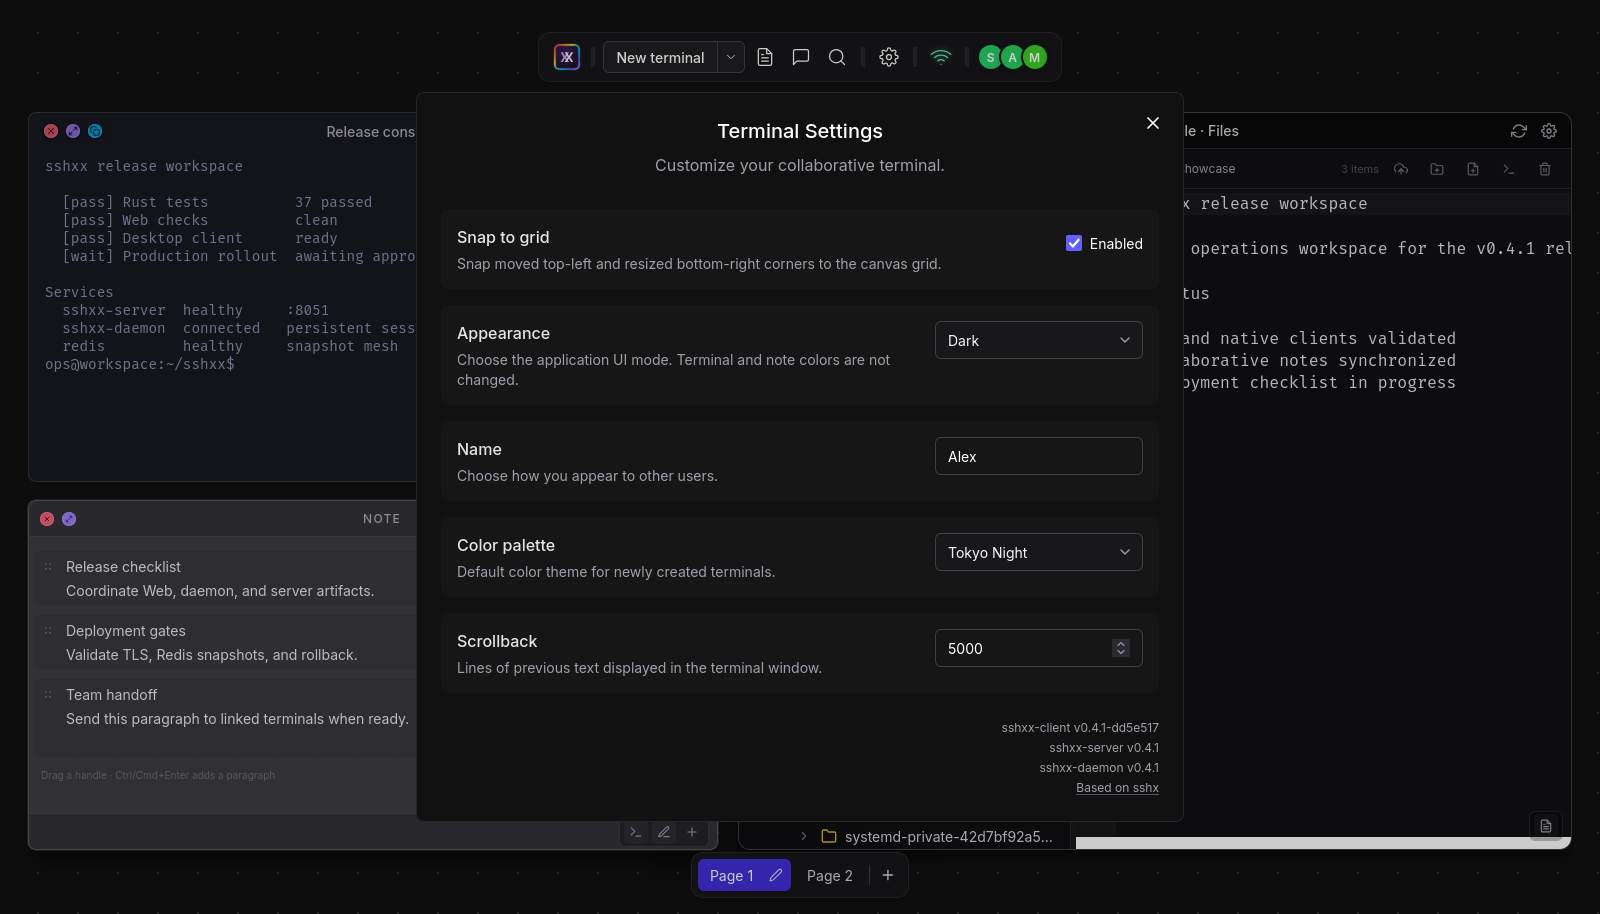
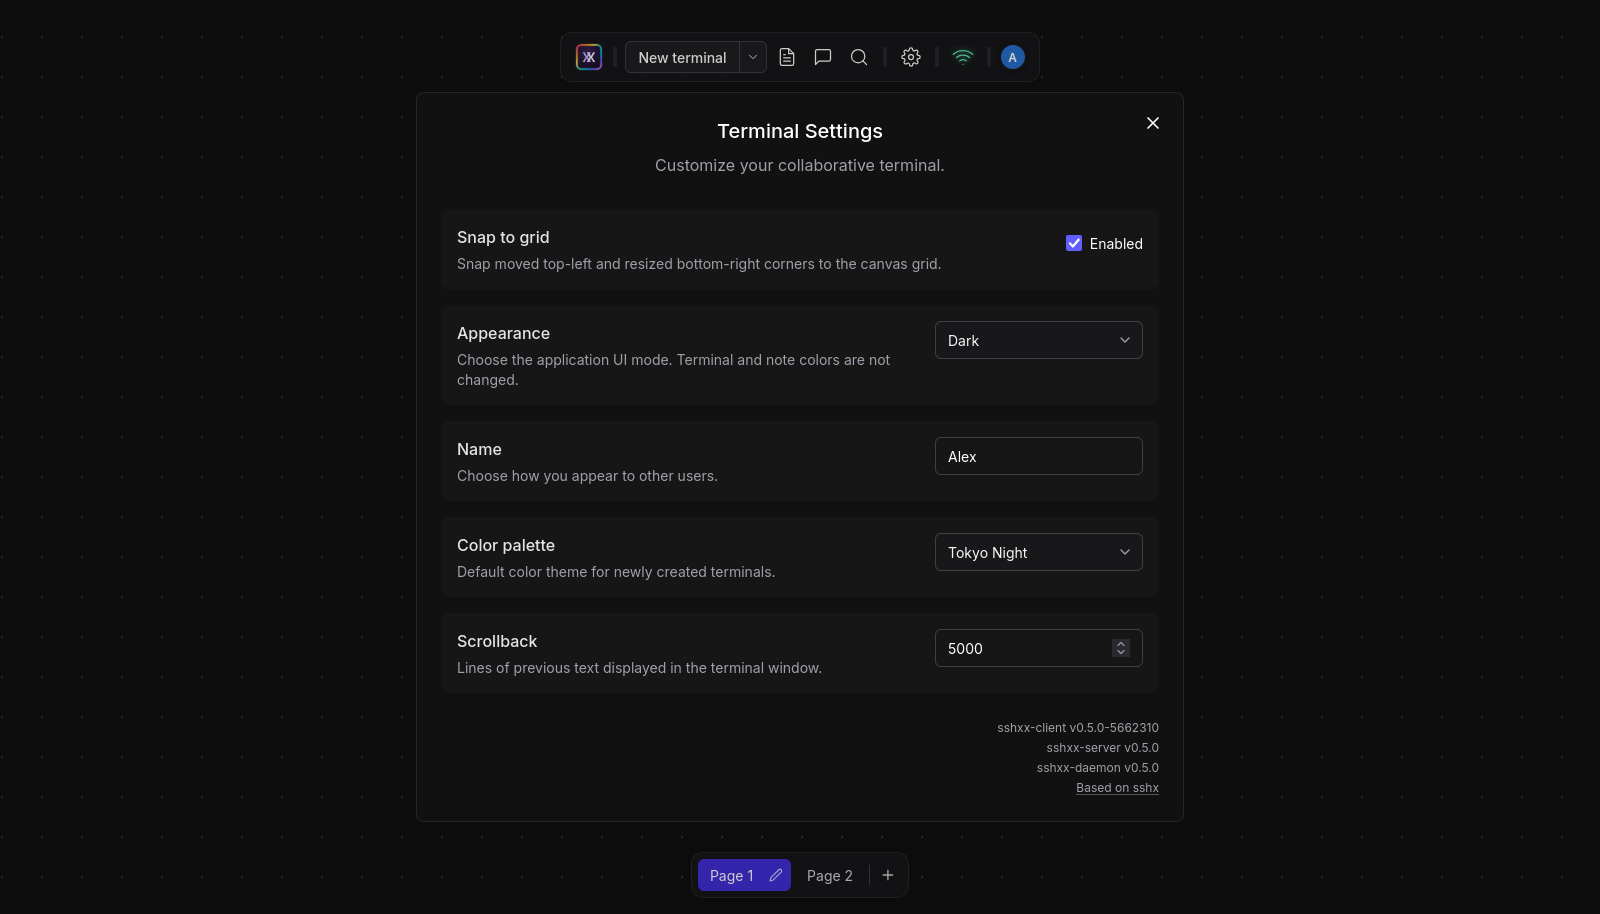
chore: bump sshxx to 0.5.0

diff --git a/vite.config.ts b/vite.config.ts
@@ -8,7 +8,7 @@ const tauriDevHost = process.env.TAURI_DEV_HOST;
 
 export default defineConfig({
   define: {
-    __APP_VERSION__: JSON.stringify("0.4.1-" + commitHash),
+    __APP_VERSION__: JSON.stringify("0.5.0-" + commitHash),
   },
 
   plugins: [sveltekit()],
